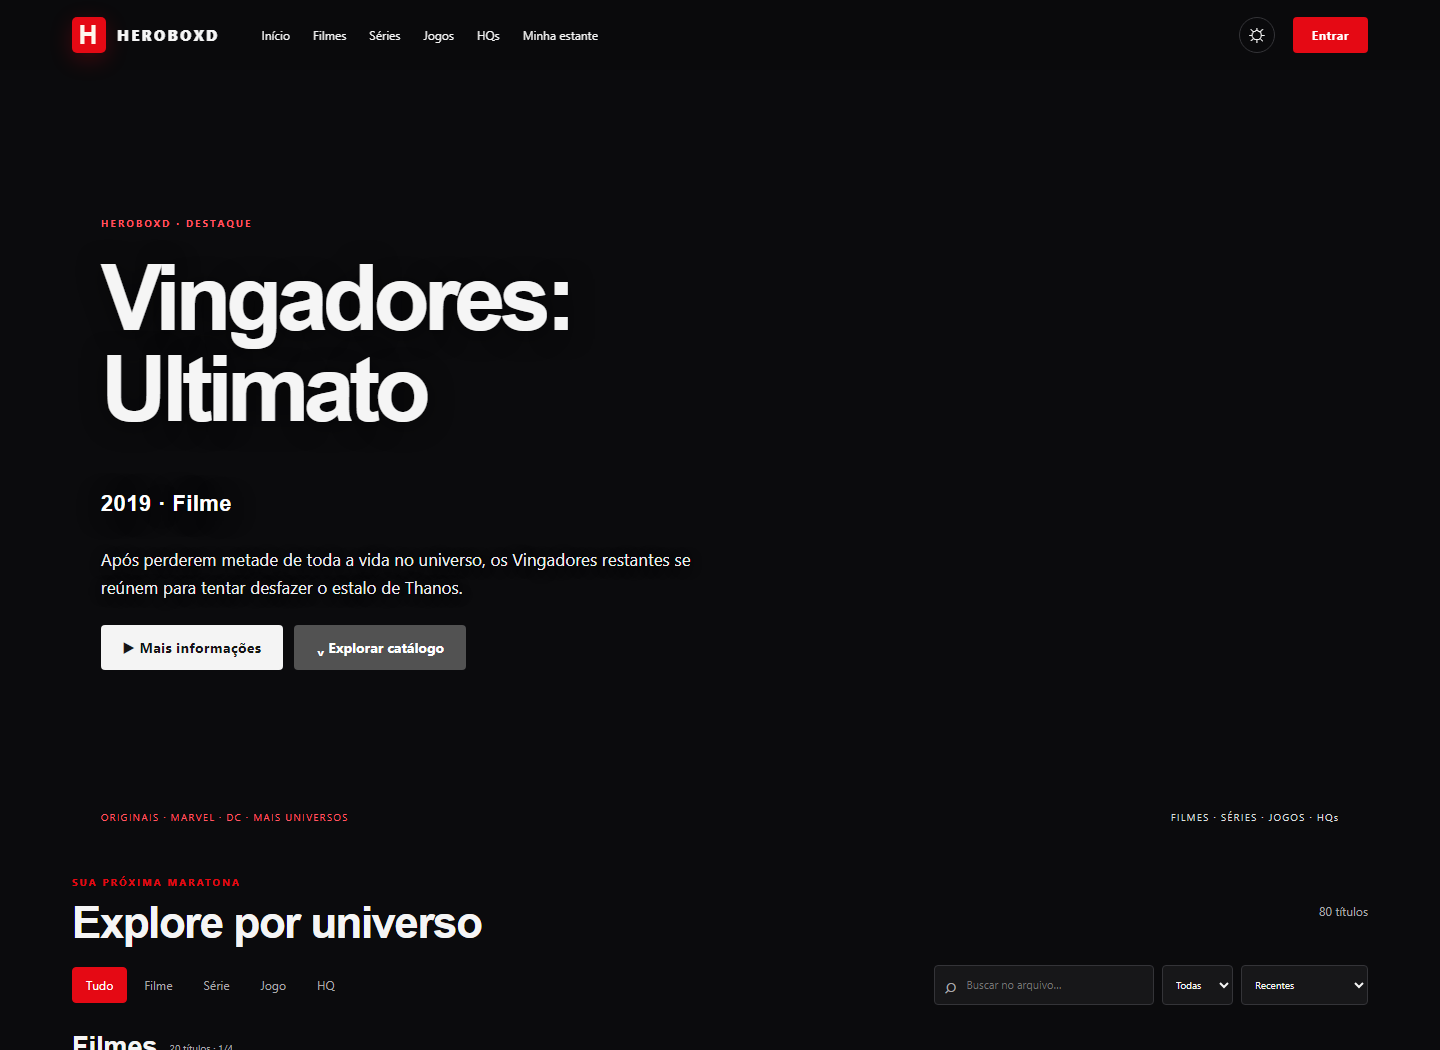
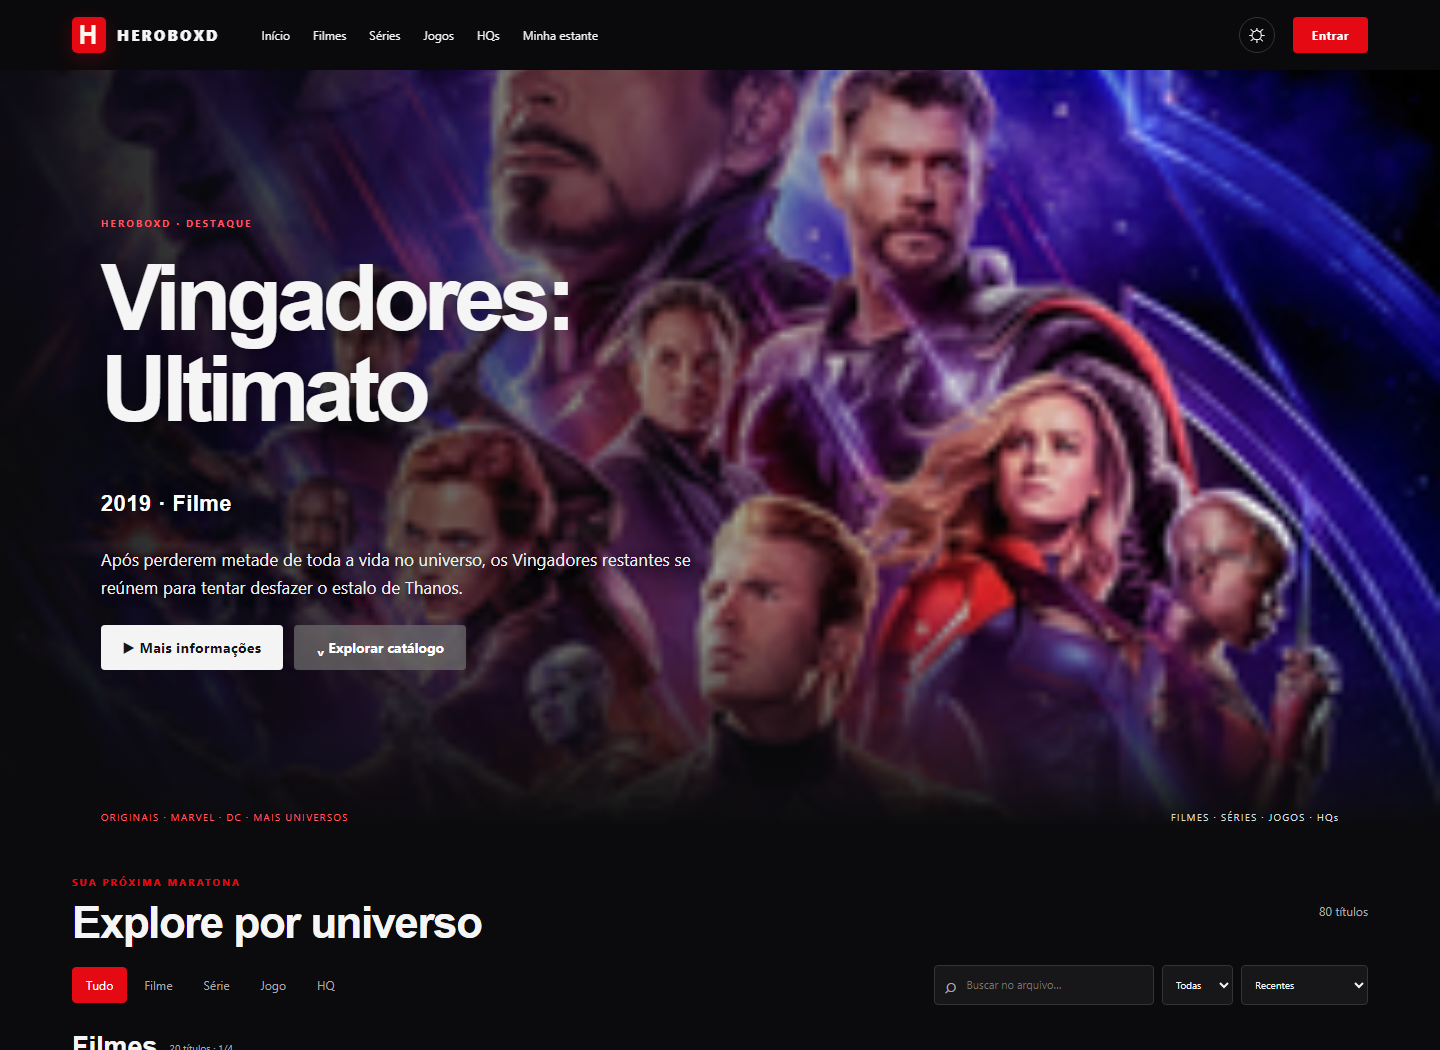
fix: restore catalog poster images

diff --git a/backend/server.js b/backend/server.js
@@ -32,7 +32,7 @@ async function auth(req,res,next){try{const token=cookieValue(req.headers.cookie
 async function createSession(userId,res){const token=crypto.randomBytes(32).toString('base64url');const hash=crypto.createHash('sha256').update(token).digest();await pool.execute('DELETE FROM sessions WHERE expires_at<NOW()');await pool.execute('INSERT INTO sessions(token_hash,user_id,expires_at) VALUES(?,?,DATE_ADD(NOW(),INTERVAL ? DAY))',[hash,userId,sessionDays]);res.setHeader('Set-Cookie',makeCookie(token));}
 const mediaSelect=`SELECT m.id,m.title,m.original_title,m.description,m.release_year AS year,m.poster_url AS poster,m.publisher_id AS publisherId,m.type_id AS typeId,p.name AS publisher,t.name AS type,ROUND(AVG(r.rating),1) AS averageRating,COUNT(DISTINCT r.id) AS reviewCount FROM media m JOIN publishers p ON p.id=m.publisher_id JOIN media_types t ON t.id=m.type_id LEFT JOIN reviews r ON r.media_id=m.id`;
 app.get('/api/health',asyncRoute(async(_req,res)=>{await pool.query('SELECT 1');res.json({ok:true,service:'HeroBoxd'});}));
-app.get('/api/posters',asyncRoute(async(_req,res)=>{if(posterCache.expires>Date.now())return res.json(posterCache.images);const [rows]=await pool.query('SELECT original_title FROM media WHERE is_active=1 AND original_title IS NOT NULL');const titles=rows.map(row=>row.original_title),images={};for(let i=0;i<titles.length;i+=40){const params=new URLSearchParams({action:'query',format:'json',prop:'pageimages',piprop:'thumbnail',pithumbsize:'720',pilicense:'free',redirects:'1',titles:titles.slice(i,i+40).join('|')});const response=await fetch(`https://en.wikipedia.org/w/api.php?${params}`,{headers:{'User-Agent':'HeroBoxdDemo/1.0 (portfolio image lookup)'}});if(!response.ok)continue;const query=(await response.json()).query||{},pages=Object.values(query.pages||{});for(const page of pages)if(page.thumbnail?.source)images[page.title.toLowerCase()]=page.thumbnail.source;for(const alias of [...(query.normalized||[]),...(query.redirects||[])]){const page=pages.find(entry=>entry.title.toLowerCase()===alias.to.toLowerCase());if(page?.thumbnail?.source)images[alias.from.toLowerCase()]=page.thumbnail.source;}}posterCache={expires:Date.now()+6*60*60*1000,images};res.setHeader('Cache-Control','public, max-age=3600');res.json(images);}));
+app.get('/api/posters',asyncRoute(async(_req,res)=>{if(posterCache.expires>Date.now()){res.setHeader('Cache-Control','no-store');return res.json(posterCache.images);}const [rows]=await pool.query('SELECT original_title FROM media WHERE is_active=1 AND original_title IS NOT NULL');const titles=rows.map(row=>row.original_title),images={};for(let i=0;i<titles.length;i+=40){const params=new URLSearchParams({action:'query',format:'json',prop:'pageimages',piprop:'thumbnail',pithumbsize:'720',pilicense:'any',redirects:'1',titles:titles.slice(i,i+40).join('|')});try{const response=await fetch(`https://en.wikipedia.org/w/api.php?${params}`,{headers:{'User-Agent':'HeroBoxdDemo/1.0 (portfolio image lookup)'},signal:AbortSignal.timeout(8000)});if(!response.ok)continue;const query=(await response.json()).query||{},pages=Object.values(query.pages||{});for(const page of pages)if(page.thumbnail?.source)images[page.title.toLowerCase()]=page.thumbnail.source;for(const alias of [...(query.normalized||[]),...(query.redirects||[])]){const page=pages.find(entry=>entry.title.toLowerCase()===alias.to.toLowerCase());if(page?.thumbnail?.source)images[alias.from.toLowerCase()]=page.thumbnail.source;}}catch{continue;}}const remoteImageCount=Object.keys(images).length;Object.assign(images,{'invincible (tv series)':'https://resizing.flixster.com/LN84dA1wPEiwBvwd7XYVS-6OTF0%3D/ems.cHJkLWVtcy1hc3NldHMvdHZzZXJpZXMvY2RiYjAzYjgtN2RjMC00N2FiLWI3NmEtMGY3ZmQxNWUzMWM3LmpwZw%3D%3D','the flash (2014 tv series)':'https://moviepostermexico.com/cdn/shop/products/flash_ver36_xxlg_1024x1024%402x.jpg?v=1586543152','smallville':'https://pics.filmaffinity.com/Smallville_Serie_de_TV-188434863-large.jpg','secret wars (1984 comic book)':'https://media.mycomicshop.com/n_ii/originalimage/7977144.jpg'});posterCache={expires:Date.now()+(remoteImageCount?6*60*60*1000:5*60*1000),images};res.setHeader('Cache-Control','no-store');res.json(images);}));
 app.get('/api/media',asyncRoute(async(req,res)=>{const q=cleanText(req.query.q,120),type=cleanText(req.query.type,20),publisher=cleanText(req.query.publisher,40),sort=cleanText(req.query.sort,16);const page=Math.max(1,Number(req.query.page)||1),limit=Math.max(1,Math.min(100,Number(req.query.limit)||24)),where=['m.is_active=1'],args=[];if(q){where.push('(m.title LIKE ? OR m.original_title LIKE ? OR m.description LIKE ?)');args.push(`%${q}%`,`%${q}%`,`%${q}%`);}if(type&&type!=='Todos'){where.push('t.name=?');args.push(type);}if(publisher&&publisher!=='Todas'){where.push('p.name=?');args.push(publisher);}const clause=' WHERE '+where.join(' AND ');const order=sort==='popular'?'averageRating DESC, reviewCount DESC, m.title':'m.release_year DESC, m.title';const [countRows]=await pool.execute(`SELECT COUNT(*) AS total FROM media m JOIN publishers p ON p.id=m.publisher_id JOIN media_types t ON t.id=m.type_id${clause}`,args);const [rows]=await pool.execute(`${mediaSelect}${clause} GROUP BY m.id ORDER BY ${order} LIMIT ? OFFSET ?`,[...args,limit,(page-1)*limit]);res.json({items:rows,total:countRows[0].total,page,limit});}));
 app.get('/api/media/:id',asyncRoute(async(req,res)=>{const [rows]=await pool.execute(`${mediaSelect} WHERE m.id=? AND m.is_active=1 GROUP BY m.id`,[Number(req.params.id)]);if(!rows.length)return res.status(404).json({error:'Mídia não encontrada.'});res.json(rows[0]);}));
 app.get('/api/media/:id/reviews',asyncRoute(async(req,res)=>{const [rows]=await pool.execute('SELECT r.id,r.rating,r.review_text AS text,r.created_at AS createdAt,u.username FROM reviews r JOIN users u ON u.id=r.user_id WHERE r.media_id=? ORDER BY r.created_at DESC LIMIT 50',[Number(req.params.id)]);res.json(rows);}));

diff --git a/frontend/src/app.js b/frontend/src/app.js
@@ -9,7 +9,7 @@ function App(){
  React.useEffect(()=>{api('/api/auth/me').then(d=>setUser(d.user));if('serviceWorker'in navigator)navigator.serviceWorker.register('/sw.js').catch(()=>{})},[]);
  React.useEffect(()=>{const token=new URLSearchParams(location.search).get('reset');if(token){setResetToken(token);setDialog('reset')}},[]);
  React.useEffect(()=>{if(!dialog)return;function handleKeydown(event){if(event.key==='Escape')setDialog('')}document.addEventListener('keydown',handleKeydown);return()=>document.removeEventListener('keydown',handleKeydown)},[dialog]);
- React.useEffect(()=>{let live=true;api('/api/posters').then(images=>{if(live)setImageMap(images)}).catch(()=>{});return()=>{live=false}},[]);
+ React.useEffect(()=>{let live=true;api('/api/posters?version=2').then(images=>{if(live)setImageMap(images)}).catch(()=>{});return()=>{live=false}},[]);
  React.useEffect(()=>{if(user)api('/api/users/me/lists').then(setLists).catch(()=>{});else setLists([])},[user]);
  async function openDetails(item){setSelected(item);setDialog('detail');try{setReviews(await api(`/api/media/${item.id}/reviews`))}catch{setReviews([])}}
  async function signout(){await api('/api/auth/logout',{method:'POST'});setUser(null);setMessage('Sessão encerrada.')}

diff --git a/frontend/public/sw-cinema.js b/frontend/public/sw-cinema.js
@@ -1,4 +1,4 @@
-const CACHE='heroboxd-static-v9';
+const CACHE='heroboxd-static-v10';
 const SHELL=['/','/manifest-red.json','/brand.svg','/theme.js','/src/styles.css','/src/cinema.css','/src/cinema-fixes.css','/src/account.css','/src/app.js','/vendor/react.production.min.js','/vendor/react-dom.production.min.js'];
 self.addEventListener('install',event=>event.waitUntil(caches.open(CACHE).then(cache=>cache.addAll(SHELL)).then(()=>self.skipWaiting())));
 self.addEventListener('activate',event=>event.waitUntil(caches.keys().then(keys=>Promise.all(keys.filter(key=>key.startsWith('heroboxd-static-')&&key!==CACHE).map(key=>caches.delete(key)))).then(()=>self.clients.claim())));

diff --git a/frontend/public/index.html b/frontend/public/index.html
@@ -8,5 +8,5 @@
   <script src="/theme.js"></script>
 </head>
 <body><div id="root"><div class="boot">HEROBOXD<span> · abrindo o arquivo</span></div></div>
-<script src="/vendor/react.production.min.js"></script><script src="/vendor/react-dom.production.min.js"></script><script src="/src/app.js?v=redesign9"></script>
+<script src="/vendor/react.production.min.js"></script><script src="/vendor/react-dom.production.min.js"></script><script src="/src/app.js?v=posters2"></script>
 </body></html>

diff --git a/docs/development-and-deployment.md b/docs/development-and-deployment.md
@@ -95,7 +95,7 @@ O `Dockerfile` usa Node.js 24 Alpine, instala apenas dependências de produção
 - A política inicial está em `frontend/public/privacidade.html`. Informe o contato do operador e confirme retenção, backups e processos reais antes de abrir o cadastro.
 - O usuário pode solicitar exclusão da conta; isso remove em cascata avaliações, listas e sessões. Backups antigos seguem o ciclo de retenção do operador.
 - A licença MIT cobre somente o código original. Verifique os direitos das imagens, marcas e personagens de terceiros antes de uso público.
-- As miniaturas do catálogo filtram para imagens marcadas como livres pela Wikimedia; isso não dispensa verificar licença e atribuição do arquivo individual antes de republicar.
+- As miniaturas do catálogo vêm das páginas da Wikimedia e podem incluir imagens com licenças diferentes, inclusive conteúdo não livre. Antes de publicar o site, confira a licença e a atribuição de cada imagem e substitua as que não puder usar.
 - `npm test` e `npm run check` rodam localmente e no GitHub Actions. O workflow não publica automaticamente o site.
 
 ## Enviar o código ao GitHub

diff --git a/README.md b/README.md
@@ -57,7 +57,7 @@ Para criar uma conta, peço nome, e-mail, idade e senha. Depois do cadastro, a p
 | Servidor e API | Node.js 24 LTS e Express 5 |
 | Banco de dados | MySQL 8.4 ou superior |
 | Sessões | Cookie `HttpOnly` e token de sessão armazenado como hash |
-| Imagens | Consulta à Wikimedia por miniaturas marcadas como livres |
+| Imagens | Miniaturas da Wikimedia, com indicação de origem e licença variável por imagem |
 | Automação | GitHub Actions para verificações de sintaxe e testes de segurança |
 
 ```mermaid
